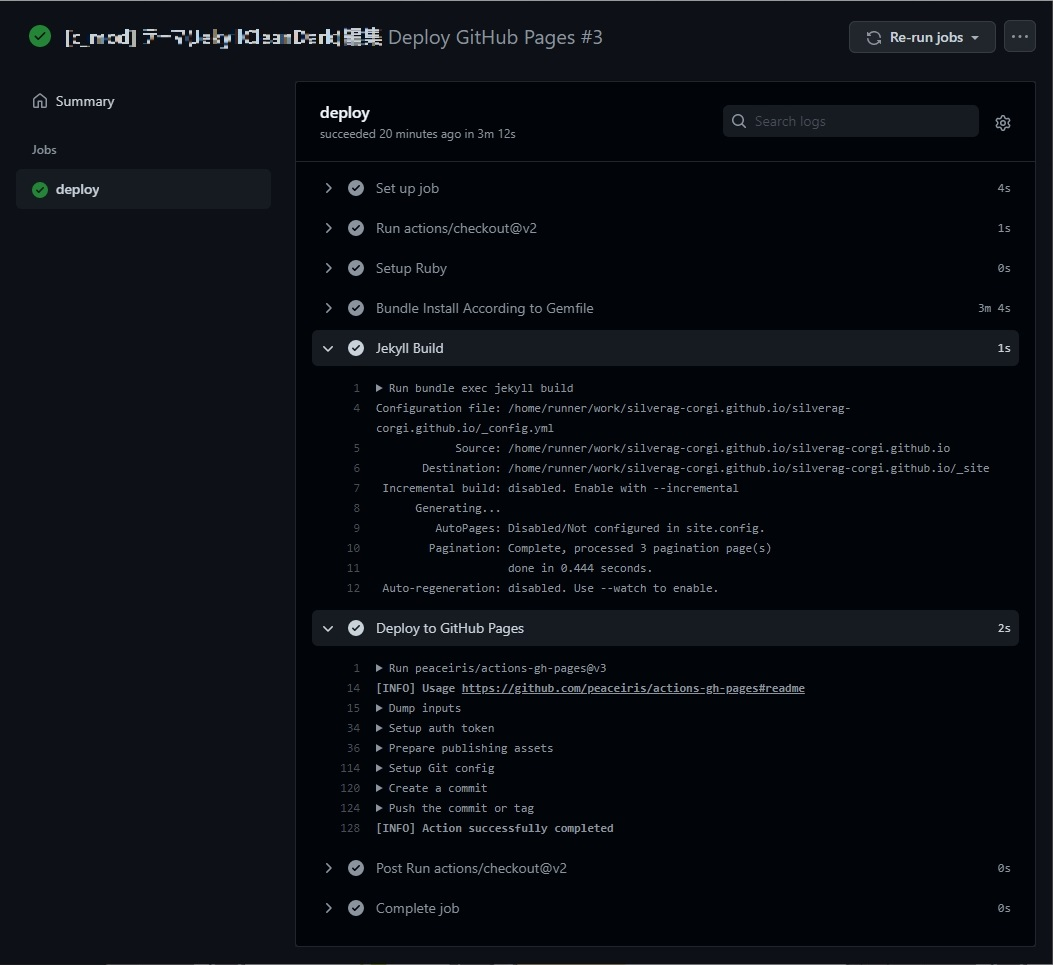
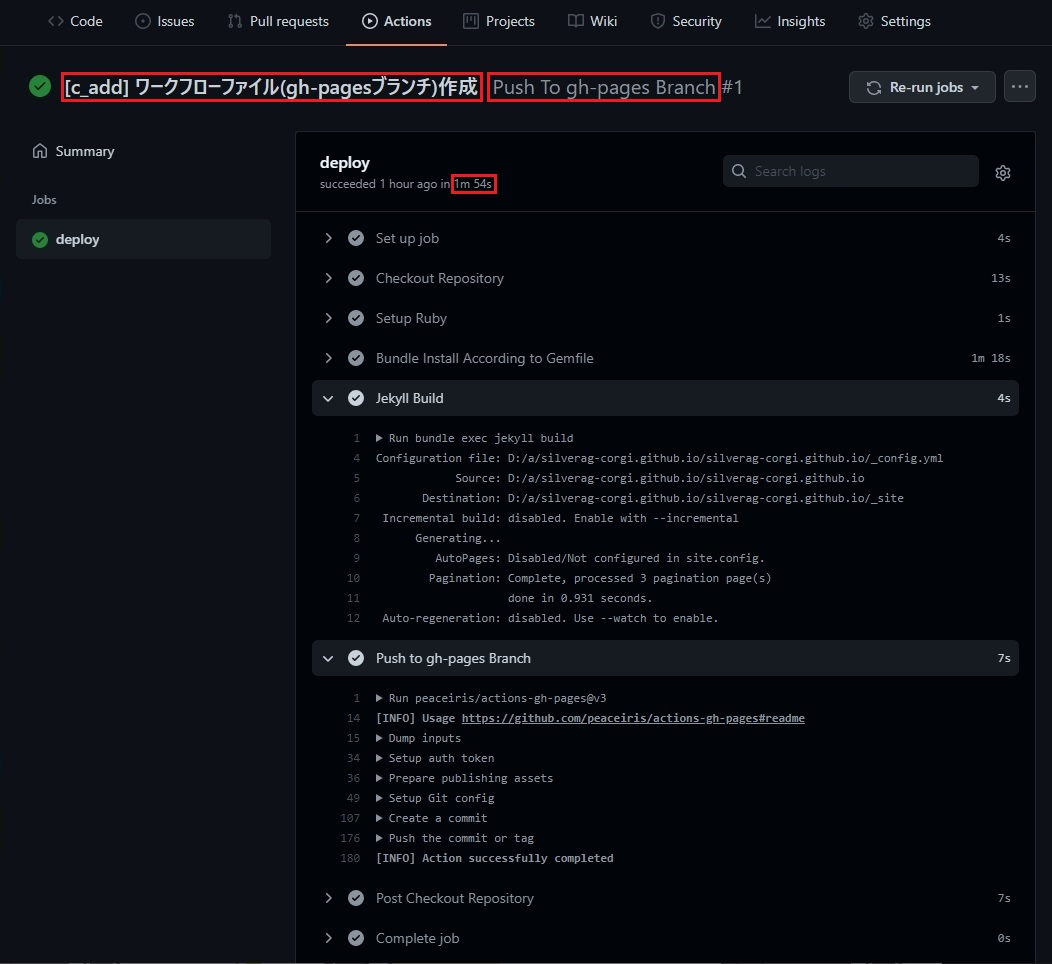
[d_upd] 下書き更新

diff --git a/_drafts/draft01.md b/_drafts/draft01.md
@@ -3,63 +3,67 @@ layout: post
 title:  下書き01
 #date:   
 #update: 
-#image: /assets/post/00000/
+image: /assets/post/00007/GitHubActions.jpg
 toc:    true
 tags:
-  - 
+  - ブログ構築
+  - Jekyll
+  - GitHubPages
+  - GitHubActions
 ---
 
 # 初めに
 
-今までは**GitHubPages**でサポートされているプラグインのみを使用していたため、
-**GitHub**にプッシュするだけでサイトが公開されていた。
-サポートされていないプラグインを使用するためには、
-**GitHubPages**に組み込まれた**Jekyll**のビルドを使用せずに事前にビルドし、
-その生成物をプッシュする必要がある。
+このブログはJekyllで静的ページを生成し、GitHubPagesで公開している。
+Jekyllのプラグインは、サポートされているプラグインのみを使用している。
 
-しかし、資産と生成物の変更履歴が一緒になり汚くなる上、
-資産を編集する度に資産と生成物の両方をプッシュするのは手間になる。
-そのため、CI/CDツールである**GitHubActions**を用いてビルドやデプロイを自動化する環境を構築した。
+サポートされているプラグインを使用する場合はJekyllはセーフモードONで十分であり、
+ビルド前の資産をプッシュするだけで勝手にビルドされサイトが公開される。
 
+しかし、サポートされていないプラグインを使用する場合はJekyllをセーフモードOFFにする必要があり、
+事前にビルドしてその生成物をプッシュする必要がある。
+問題点として、資産と生成物の変更履歴が一緒になり汚くなる上、
+資産を編集する度に資産と生成物の両方をプッシュするのは手間になることである。
+
+そのため、CI/CDツールであるGitHubActionsを用いてビルドやプッシュを自動化する環境を構築した。
 今回はその構築手順をまとめる。
 
 
 # ワークフロー
 
-まず、ユーザがプッシュした後の**GitHub**視点のワークフローをまとめる。
+まず、ユーザがプッシュした後のGitHub視点のワークフローをまとめる。
 
 
-## 変更前(GitHubPages組み込みJekyllによるビルド)
+## 変更前(セーフモードON：サポートされているプラグインのみ使用)
 
-  1. **GitHub**が**master**ブランチへのプッシュを検知する
-  1. **GitHub**が組み込まれた**Jekyll**でビルドする
-  1. **GitHub**が生成物を**GitHubPages**にデプロイする
-  1. **GitHubPages**がサイトを公開する
-
-
-## 変更後(GitHubActionsを用いたJekyllによるビルド)
-
-  1. **GitHubActions**が**master**ブランチへのプッシュを検知する
-  1. **GitHubActions**がリポジトリをチェックアウトする(*)
-  1. **GitHubActions**が**Ruby**をセットアップする(*)
-  1. **GitHubActions**が**Gem**をインストールする(*)
-  1. **GitHubActions**が**Jekyll**でビルドする
-  1. **GitHubActions**が**gh-pages**ブランチへ生成物をプッシュする(*)
-  1. **GitHubActions**が生成物を**GitHubPages**にデプロイする
-  1. **GitHubPages**がサイトを公開する
-
-(*)主語を除いて判断した時の差分ありの箇所。
+  1. GitHubがmasterブランチへのプッシュを検知する
+  1. GitHubがGitHubPagesに組み込まれたJekyll(セーフモードON)でビルドする
+  1. GitHubがGitHubPagesに生成物をデプロイする
+  1. GitHubPagesがサイトを公開する
 
 
-# GitHubPagesの公開用ブランチ(gh-pages)の作成
+## 変更後(セーフモードOFF：サポートされていないプラグイン使用)
 
-資産と生成物の変更履歴を分けるため、
-開発用ブランチ(master)と公開用ブランチ(gh-pages)で別々に管理する。
-前者は既にあるので、後者を新たに作成する。
+  1. GitHubActionsがmasterブランチへのプッシュを検知する
+  1. GitHubActionsがリポジトリをチェックアウトする
+  1. GitHubActionsがRubyをセットアップする
+  1. GitHubActionsがGemをインストールする
+  1. GitHubActionsがJekyll(セーフモードOFF)でビルドする
+  1. GitHubActionsがgh-pagesブランチへ生成物をプッシュする
+  1. GitHubがGitHubPagesに生成物をデプロイする
+  1. GitHubPagesがサイトを公開する
 
-また、自分の環境での注意事項であるが、
-普段使用している**TortoiseGit**は親のないブランチを作成する機能(orphan)は提供していないらしい。
-そのため**GitCmd**で作成する必要がある。
+
+# 公開用ブランチ(gh-pages)の作成
+
+資産と生成物の変更履歴を分けるため、開発用ブランチ(master)と公開用ブランチ(gh-pages)で別々に管理する。
+
+開発用ブランチは既にあるので、公開用ブランチを新たに作成する。
+作成時に基点となるブランチから資産や変更履歴を引き継ぎたくないため、親のないブランチとして作成する。
+
+しかし、自分の環境での注意事項であるが、
+普段使用しているTortoiseGitには親のないブランチを作成する機能(orphan)は提供していないらしい。
+そのためGitCmdで作成する。
 
 公開用ブランチを作成した時のコマンドを示す。
 
@@ -78,7 +82,8 @@ $ git push origin gh-pages         # プッシュする
 {% endhighlight %}
 
 因みにorphanとは孤児のことらしい。
-更に孤児は両親・親戚等の保護者のいない未成年者という意味で、親のないブランチってことらしい。
+更に孤児は両親・親戚等の保護者のいない未成年者という意味から、
+親のないブランチでorphanということらしい。
 
 
 ## 参考サイト
@@ -90,67 +95,66 @@ $ git push origin gh-pages         # プッシュする
 # GitHubActionsによる自動化の設定
 
 資産を編集する度に資産と生成物の両方をプッシュするのは手間になるため、
-CI/CDツールである**GitHubActions**を用いてビルドやデプロイを自動化する。
+CI/CDツールであるGitHubActionsを用いてビルドやプッシュを自動化する。
 
-以下のワークフローファイルを作成し、**master**ブランチにプッシュした。
+以下のワークフローファイルを作成し、開発用ブランチ(master)にプッシュした。
 
-これにより、**master**ブランチに資産をプッシュすると、
-今までのセーフモードONのGitHubPages組み込みJekyllによるビルドではなく、
-セーフモードOFFのJekyllによるビルドから**GitHubPages**によるサイト公開までが自動で実行される。
+これにより開発用ブランチ(master)に資産をプッシュすると、
+リポジトリのチェックアウト、ビルド環境の構築、セーフモードOFFのJekyllによるビルド、
+公開用ブランチ(gh-pages)への生成物のプッシュなどが自動で実行される。
 
 .github/workflows/deploy-to-gh-pages.yml
 {: .filename }
 {% highlight yml %}
 {% raw %}
 # ワークフロー名
-name: Deploy To GitHub Pages
+name: Push To gh-pages Branch
 
 # ジョブが実行されるトリガー
 on:
   push:
     branches:
-      - master # 1.GitHubActionsがmasterブランチへのプッシュを検知する
+      - master # 1. GitHubActionsがmasterブランチへのプッシュを検知する
 
 # 実行されるジョブ一覧
 jobs:
   deploy: # ジョブ名
-    runs-on: ubuntu-20.04 # 実行環境
+    runs-on: windows-2019 # 実行環境
     
     concurrency: # 並行処理(同じグループのジョブは処理待ち)
-      group: ${{ github.workflow }}-${{ github.ref }}
+      group: ${{ github.workflow }} - ${{ github.ref }}
       # [ワークフロー名]-[ワークフローの実行をトリガーしたブランチ名]
-      # Deploy GitHub Pages-refs/heads/master
+      # Deploy GitHub Pages - refs/heads/master
     
     steps: # ジョブで実行されるステップ一覧
-      # 2.GitHubActionsがリポジトリをチェックアウトする
+      # 2. GitHubActionsがリポジトリをチェックアウトする
       - name: Checkout Repository
         uses: actions/checkout@v2
       
-      # 3.GitHubActionsがRubyをセットアップする
+      # 3. GitHubActionsがRubyをセットアップする
       - name: Setup Ruby
         uses: actions/setup-ruby@v1
         with:
           ruby-version: 2.7
       
-      # 4.GitHubActionsがGemをインストールする
+      # 4. GitHubActionsがGemをインストールする
       - name: Bundle Install According to Gemfile
         run: |
           bundle install
       
-      # 5.GitHubActionsがJekyllでビルドする
+      # 5. GitHubActionsがJekyll(セーフモードOFF)でビルドする
       - name: Jekyll Build
         run: |
           bundle exec jekyll build
       
-      # 6.GitHubActionsがgh-pagesブランチへ生成物をプッシュする
-      # 7.GitHubActionsが生成物をGitHubPagesにデプロイする
-      - name: Deploy to GitHub Pages
+      # 6. GitHubActionsがgh-pagesブランチへ生成物をプッシュする
+      - name: Push to gh-pages Branch
         uses: peaceiris/actions-gh-pages@v3
         with:
           github_token: ${{ secrets.GITHUB_TOKEN }}
           publish_branch: gh-pages
           publish_dir: ./_site
-          force_orphan: true
+          force_orphan: true # コミット件数は必ず1件(最新のコミットのみ)
           user_name: "github-actions[bot]"
           user_email: "github-actions[bot]@users.noreply.github.com"
 {% endraw %}
@@ -167,21 +171,40 @@ jobs:
      ](https://docs.github.com/ja/actions/guides/building-and-testing-ruby)
 
 
-# GitHubActionsの実行ログ
+# GitHubActionsによる自動化の実行結果
 
-GitHubActionsが実行された時のログを示す。
+以下のコミットメッセージで開発用ブランチ(master)にプッシュした際の実行結果をワークフロー順に示す。
 
-![GitHubActions実行ログ](
+  - [c_add] ワークフローファイル(gh-pagesブランチ)作成
+
+
+## 開発用ブランチ(master)の資産状態
+
+![GitHubActions_gh-pages](
+{{ '/assets/post/00007/branch_master.JPG' | relative_url }})
+
+
+## 実行ログ
+
+[上記で作成したワークフローファイル](#githubactionsによる自動化の設定)
+が実行され、1分54秒で完了している。
+
+![GitHubActions_log](
 {{ '/assets/post/00007/GitHubActions_log.JPG' | relative_url }})
 
-ワークフローファイルで定義した通りに実行されている。
 
-気になる箇所は上から4つ目のBundleInstallである。
-Gemをインストールするだけにも関わらず、3分も消費している。
-今後、なにが問題か調べる。
+## 公開用ブランチ(gh-pages)の資産状態
+
+![GitHubActions_gh-pages](
+{{ '/assets/post/00007/branch_gh-pages.JPG' | relative_url }})
 
 
 # 最後に
 
+今回はセーフモードOFFのJekyllによるビルドを含めたワークフローの一部を
+GitHubActionsにより自動化した。
 
+これでサポートされていないプラグインだからと使用を見送っていた、沢山のプラグインを使用できる。
+しかし元々はサポートされているプラグインのみを使用する想定で実装していたいため、
+移植する箇所が結構ありそう。大変そうではあるが今から楽しみ。
 
